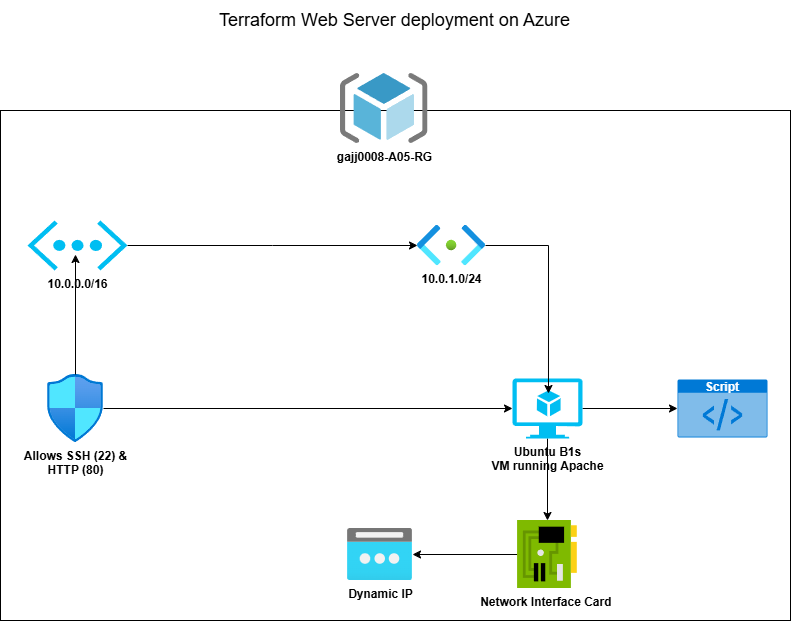
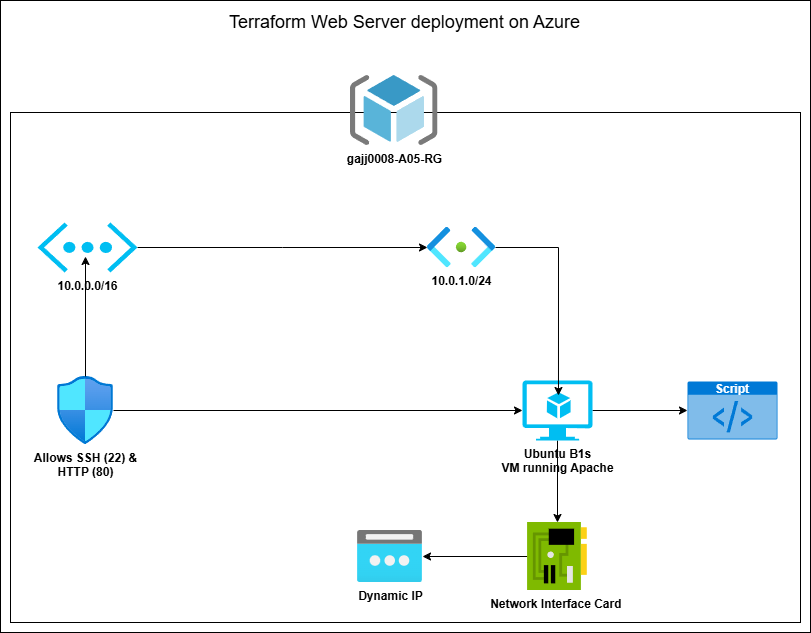
Architecture Diagram CHange

Changed region(s): [[0.0, 0.3366, 1.0, 1.0], [0.0, 0.1224, 1.0, 0.2754], [0.2731, 0.0, 0.7282, 0.0612]]

diff --git a/README.md b/README.md
@@ -1,0 +1,20 @@
+# LAB-A05 Terraform Web Server on Azure
+
+## 🎯 Objective
+Deploy a publicly accessible Apache web server on Azure using Terraform, following Infrastructure-as-Code (IaC) principles.
+
+---
+
+## 📋 Lab Steps
+
+### 1. Create an Architecture Diagram
+- **Tools**: Use [draw.io](https://app.diagrams.net/) or [Lucidchart](https://www.lucidchart.com/).
+- **Components**:
+  - Resource Group
+  - Virtual Network (VNet): `10.0.0.0/16`
+  - Subnet: `10.0.1.0/24`
+  - Public IP Address
+  - Network Security Group (NSG) with SSH (22) and HTTP (80) rules
+  - Ubuntu VM with Apache installed via `cloud-init`
+- **Sample Diagram**:
+  ![Architecture Diagram](./a05-architecture.png)
